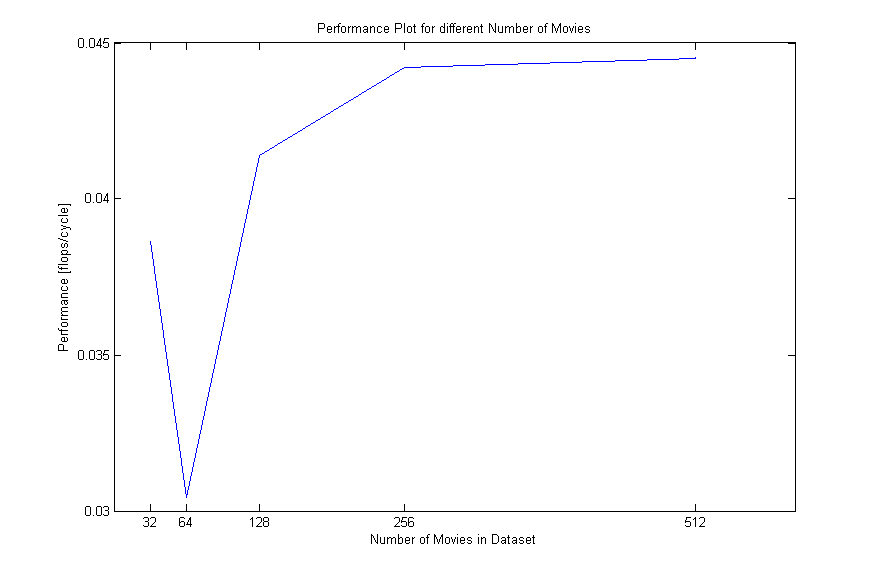
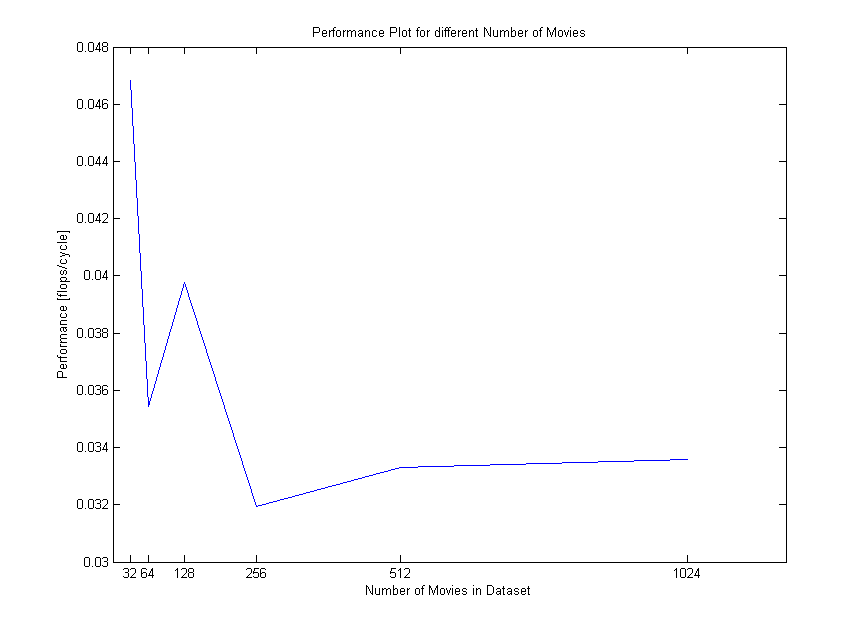
Corrected mistake in performance plot. Added an operations / cycle plot.

diff --git a/analysis/perf_plot.m b/analysis/perf_plot.m
@@ -1,41 +1,60 @@
 peak_perf = 2;
 
 data_points = zeros(6,2);
+data_points2 = zeros(6,2);
 
 N = 32;
 instr = 620944236;
+cycles = 512333536;
 flops = 24000060;
-perf = flops/instr;
+perf = flops/cycles;
+ops_cycle = instr/cycles;
+data_points2(1,:) = [N, ops_cycle];
 data_points(1,:) = [N, perf];
 
 N = 64;
 instr = 1576639914;
+cycles = 1354432651;
 flops = 48000072;
-perf = flops/instr;
+perf = flops/cycles;
+ops_cycle = instr/cycles;
+data_points2(2,:) = [N, ops_cycle];
 data_points(2,:) = [N, perf];
 
 N = 128;
 instr = 5800032921;
+cycles = 6033692795;
 flops = 240000648;
-perf = flops/instr;
+perf = flops/cycles;
+ops_cycle = instr/cycles;
+data_points2(3,:) = [N, ops_cycle];
 data_points(3,:) = [N, perf];
 
 N = 256;
 instr = 10856396983;
+cycles = 15026119602;
 flops = 480001200;
-perf = flops/instr;
+perf = flops/cycles;
+ops_cycle = instr/cycles;
+data_points2(4,:) = [N, ops_cycle];
 data_points(4,:) = [N, perf];
 
 N = 512;
 instr = 13481328085;
+cycles = 18020959931;
 flops = 600001404;
-perf = flops/instr;
+perf = flops/cycles;
+ops_cycle = instr/cycles;
+data_points2(5,:) = [N, ops_cycle];
 data_points(5,:) = [N, perf];
 
-N = 512;
+N = 1024;
 instr = 13477232228;
+cycles = 17860077573;
 flops = 600001212;
-perf = flops/instr;
+perf = flops/cycles;
+ops_cycle = instr/cycles;
+data_points2(6,:) = [N, ops_cycle];
 data_points(6,:) = [N, perf];
 
 plot(data_points(:,1), data_points(:,2));
@@ -44,5 +63,16 @@ hold on;
 title('Performance Plot for different Number of Movies');
 xlabel('Number of Movies in Dataset')
 ylabel('Performance [flops/cycle]')
+
+set(gca,'XTick',[32 64 128 256 512 1024]);
+
+
+figure;
+plot(data_points2(:,1), data_points2(:,2));
+hold on;
+
+title('Operations/Cycle Plot for different Number of Movies');
+xlabel('Number of Movies in Dataset')
+ylabel('[ops/cycle]')
 
 set(gca,'XTick',[32 64 128 256 512 1024]);
